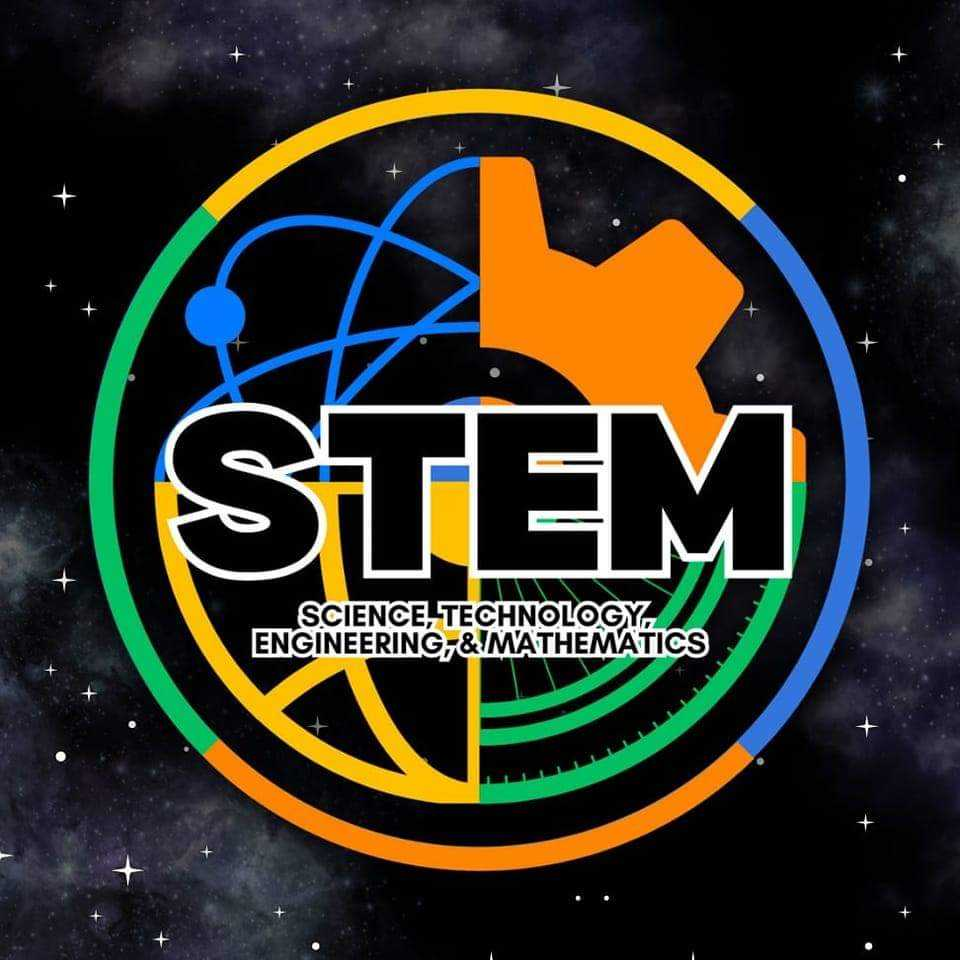
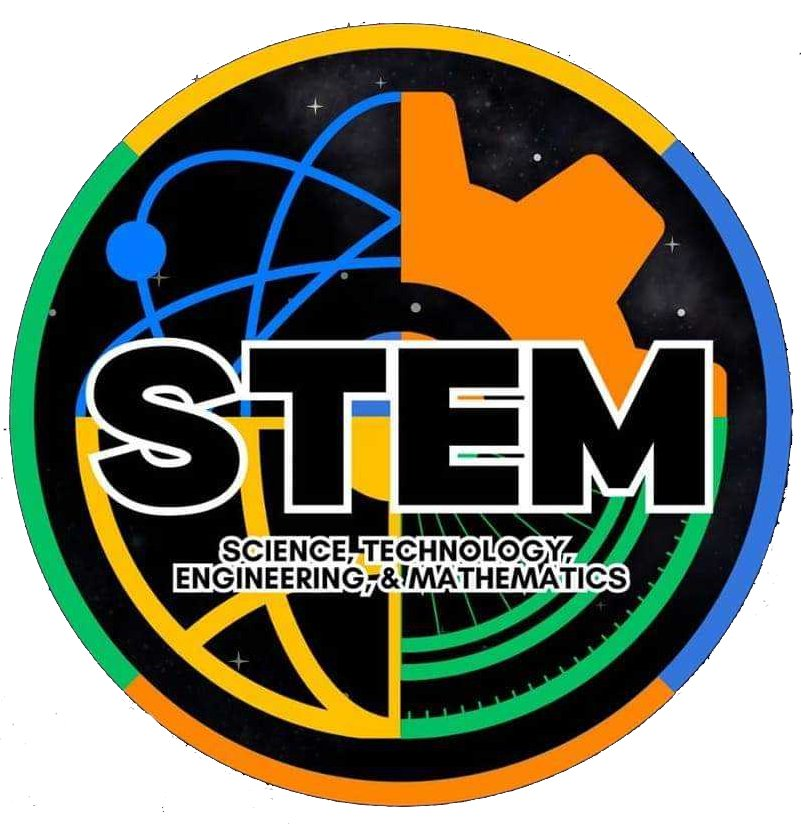
Update

diff --git a/src/component/Notifications.js b/src/component/Notifications.js
@@ -13,27 +13,17 @@ const Notifications = () => {
         Notifications
       </h1>
       <div className="flex flex-col gap-4 p-3">
-        <div className="bg-yellow-400 p-4 w-full rounded-md py-1 h-[2em]">
-          pak u justine
-        </div>
-        <div className="bg-yellow-400 p-4 w-full rounded-md py-1 h-[2em]">
-          pak u justine
-        </div>
-        <div className="bg-yellow-400 p-4 w-full rounded-md py-1 h-[2em]">
-          pak u justine
-        </div>
-        <div className="bg-yellow-400 p-4 w-full rounded-md py-1 h-[2em]">
-          pak u justine
-        </div>
-        <div className="bg-yellow-400 p-4 w-full rounded-md py-1 h-[2em]">
-          pak u justine
-        </div>
-        <div className="bg-yellow-400 p-4 w-full rounded-md py-1 h-[2em]">
-          pak u justine
-        </div>
-        <div className="bg-yellow-400 p-4 w-full rounded-md py-1 h-[2em]">
-          pak u justine
-        </div>
+        <div className="bg-yellow-400 p-4 w-full rounded-md py-1 h-[2em]"></div>
+        <div className="bg-yellow-400 p-4 w-full rounded-md py-1 h-[2em]"></div>
+        <div className="bg-yellow-400 p-4 w-full rounded-md py-1 h-[2em]"></div>
+        <div className="bg-yellow-400 p-4 w-full rounded-md py-1 h-[2em]"></div>
+        <div className="bg-yellow-400 p-4 w-full rounded-md py-1 h-[2em]"></div>
+        <div className="bg-yellow-400 p-4 w-full rounded-md py-1 h-[2em]"></div>
+        <div className="bg-yellow-400 p-4 w-full rounded-md py-1 h-[2em]"></div>
+        <div className="bg-yellow-400 p-4 w-full rounded-md py-1 h-[2em]"></div>
+        <div className="bg-yellow-400 p-4 w-full rounded-md py-1 h-[2em]"></div>
+        <div className="bg-yellow-400 p-4 w-full rounded-md py-1 h-[2em]"></div>
+        <div className="bg-yellow-400 p-4 w-full rounded-md py-1 h-[2em]"></div>
       </div>
     </motion.div>
   );

diff --git a/src/pages/Stem.js b/src/pages/Stem.js
@@ -1,19 +1,17 @@
 import React from "react";
 import Header from "../component/Header";
-import stemClubLogo from "../assets/image3.jpg";
+import StemClubLogo from "../assets/StemClub.png";
 import StemClubComponent from "../component/StemClubComponent";
 
 const Stem = () => {
   return (
-    <div className="">
+    <div className="bg-[#a8f8947f] ">
       <Header />
-      <div
-        className="bg-center h-screen bg-no-repeat bg-[#498727da] w-full lg:w-auto"
-        style={{ backgroundImage: `url(${stemClubLogo})` }}
-      >
-        <h1 className="font-extrabold text-[20px] lg:text-[60px] text-[#e0e04b] text-center tracking-wide">
-          Welcome <span>STEM</span>
-        </h1>
+      <h1 className="font-extrabold text-[20px] lg:text-[60px] text-[#000000] text-center tracking-wide -pt-10">
+        Welcome <span>to STEM</span>
+      </h1>
+      <div className="flex justify-center mt-5 mb-20">
+        <img className="max-w-s h-auto w-1/3  " src={StemClubLogo} />
       </div>
       <StemClubComponent />
     </div>

diff --git a/src/pages/Humms.js b/src/pages/Humms.js
@@ -6,15 +6,13 @@ import HummsClubComponent from "../component/HummsClubComponent";
 
 const Humms = () => {
   return (
-    <div className="">
+    <div className="bg-[#f7f7f7f0] ">
       <Header />
-      <div
-        className="bg-center h-screen bg-no-repeat bg-[#ffffff] w-full lg:w-auto"
-        style={{ backgroundImage: `url(${HummsClubLogo})` }}
-      >
-        <h1 className="font-extrabold text-[20px] lg:text-[60px] text-[#c33838] text-center tracking-wide">
-          Welcome <span>HUMMS</span>
-        </h1>
+      <h1 className="font-extrabold text-[20px] lg:text-[60px] text-[#c33838] text-center tracking-wide -pt-10">
+        Welcome <span>to HUMMS</span>
+      </h1>
+      <div className="flex justify-center -mt-1 mb-10">
+        <img className="max-w-full h-auto  " src={HummsClubLogo} />
       </div>
       <HummsClubComponent />
     </div>

diff --git a/src/pages/SSAClub.js b/src/pages/SSAClub.js
@@ -13,8 +13,8 @@ const SSAClub = () => {
         className="bg-center h-screen bg-no-repeat bg-[#1a1919da] w-full lg:w-auto"
         style={{ backgroundImage: `url(${ssaClubLogo})` }}
       >
-        <h1 className="font-extrabold text-[20px] lg:text-[60px] text-[#e0e04b] text-center tracking-wide">
-          Welcome <span>Kupal</span>
+        <h1 className="font-extrabold text-[20px] lg:text-[60px] text-[#d7b83c] text-center tracking-wide">
+          Welcome <span>to SSA</span>
         </h1>
       </div>
       <SsaClubComponent />

diff --git a/public/index.html b/public/index.html
@@ -2,7 +2,7 @@
 <html lang="en">
   <head>
     <meta charset="utf-8" />
-    <!-- <link rel="icon" href="%PUBLIC_URL%/favicon.ico" /> -->
+
     <meta name="viewport" content="width=device-width, initial-scale=1" />
     <meta name="theme-color" content="#000000" />
     <meta
